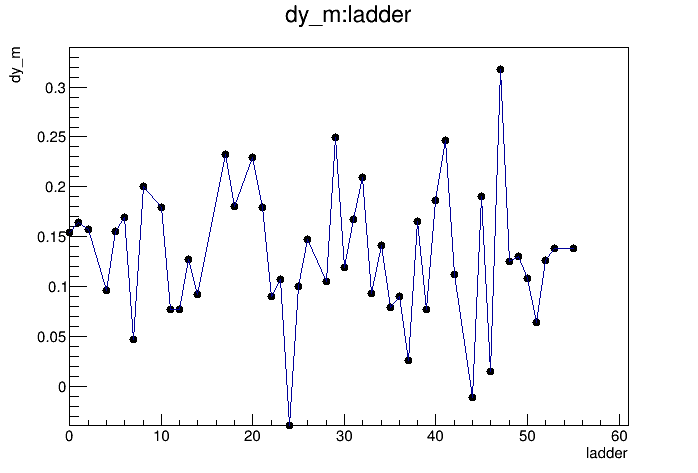
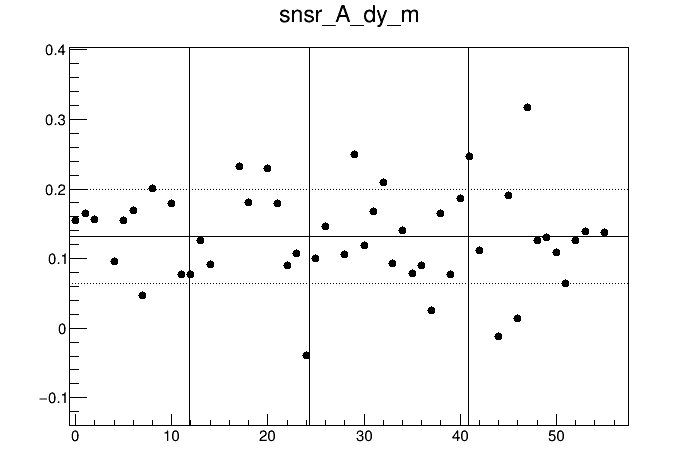
Sample Text

diff --git a/draw_scatterplots.cc b/draw_scatterplots.cc
@@ -14,7 +14,7 @@ void draw_scatterplots()
 		{"B1L0", 24},
 		{"B1L1", 40}
 	};
-	std::map<std::string, std::tuple<float*, float*, float*, Long64_t*, TTree*>> params =
+	std::map<std::string, std::tuple<float*, float*, float*, Long64_t*, TGraph*>> params =
 	{
 		{"dx_m",	{new float(0),	new float(0),	new float(0),	new Long64_t(0), nullptr}},
 		{"dy_m",	{new float(0),	new float(0),	new float(0),	new Long64_t(0), nullptr}},
@@ -71,9 +71,12 @@ void draw_scatterplots()
 	
 			name = *snsr + "_" + par->first;
 			if(std::get<4>(par->second))delete std::get<4>(par->second);
-			std::get<4>(par->second) = new TTree(name.c_str(), name.c_str());
-			std::get<4>(par->second)->Branch("ladder", std::get<3>(par->second));
-			std::get<4>(par->second)->Branch(par->first.c_str(), std::get<0>(par->second));
+			std::get<4>(par->second) = new TGraph();
+			std::get<4>(par->second)->SetName(name.c_str());
+			std::get<4>(par->second)->SetTitle(name.c_str());
+			//std::get<4>(par->second) = new TTree(name.c_str(), name.c_str());
+			//std::get<4>(par->second)->Branch("ladder", std::get<3>(par->second));
+			//std::get<4>(par->second)->Branch(par->first.c_str(), std::get<0>(par->second));
 
 			std::cout << "\t\t" << par->first << std::endl;
 			std::cout << "\t\t\tm:\t" << m << std::endl;
@@ -96,24 +99,85 @@ void draw_scatterplots()
 				{
 					if(name.find(lddr->first) != std::string::npos)*std::get<3>(par->second) += lddr->second;
 				}
-				std::get<4>(par->second)->Fill();//AddPoint(*std::get<3>(par->second), * std::get<0>(par->second));
+				std::get<4>(par->second)->AddPoint(*std::get<3>(par->second), *std::get<0>(par->second));
 			}
 		}
 
 		for(auto par = params.begin(); par != params.end(); ++par)
 		{
-			name = par->first + ":ladder";
-			std::get<4>(par->second)->SetMarkerStyle(20);
-			std::get<4>(par->second)->Draw(name.c_str());
+			float m = *std::get<1>(par->second);
+			float s = *std::get<2>(par->second);
 
-			TCanvas* c1 = (TCanvas*)gROOT->FindObject("c1");
+			std::cout << "\t" << par->first << std::endl;
+			std::cout << "\t\tm:\t" << m << std::endl;
+			std::cout << "\t\ts:\t" << s << std::endl;
+
+			name = *snsr + "_" + par->first;
+			TCanvas* c1 = new TCanvas(name.c_str(), name.c_str());
+			c1->SetFillStyle(4000);
+			c1->Range(0.0, 0.0, 1.0, 1.0);
+			c1->Draw();
+
+			c1->cd();
+			TPad* p1 = new TPad((name + "_graph").c_str(), (name + "_graph").c_str(), 0.0, 0.0, 1.0, 1.0);
+			p1->SetFillStyle(4000);
+			p1->Range(0.0, 0.0, 1.0, 1.0);
+			p1->Draw();
+
+			p1->cd();
+			std::get<4>(par->second)->SetMarkerStyle(20);
+			std::get<4>(par->second)->GetXaxis()->SetRangeUser(-1.0, 57);
+			std::get<4>(par->second)->GetYaxis()->SetRangeUser(m - 4.0 * s, m + 4.0 * s);
+			std::get<4>(par->second)->Draw("AP");
+
+			c1->cd();
+			TPad* p2 = new TPad((name + "_line").c_str(), (name + "_line").c_str(), 0.0, 0.0, 1.0, 1.0);
+			p2->SetFillStyle(4000);
+			p2->Range(0.0, 0.0, 1.0, 1.0);
+			p2->Draw();
+
+			p2->cd();
+			TLine line;
+			line.SetX1(0.1);
+			line.SetX2(0.9);
+
+			line.SetY1(0.5);
+			line.SetY2(0.5);
+			line.DrawClone();
+
+			line.SetLineStyle(3);
+
+			line.SetY1(0.4);
+			line.SetY2(0.4);
+			line.DrawClone();
+
+			line.SetY1(0.6);
+			line.SetY2(0.6);
+			line.DrawClone();
+
+
+			line.SetLineStyle(1);
+			line.SetY1(0.1);
+			line.SetY2(0.9);
+
+			line.SetX1(0.1 + 0.8 * (12.0 / 56.0));
+			line.SetX2(0.1 + 0.8 * (12.0 / 56.0));
+			line.DrawClone();
+
+			line.SetX1(0.1 + 0.8 * (24.0 / 56.0));
+			line.SetX2(0.1 + 0.8 * (24.0 / 56.0));
+			line.DrawClone();
+	
+			line.SetX1(0.1 + 0.8 * (40.0 / 56.0));
+			line.SetX2(0.1 + 0.8 * (40.0 / 56.0));
+			line.DrawClone();		
+
 			name = "param_scatterplots/";
 			name += *snsr + "_" + par->first + ".png";
 
-			TGraph* g = (TGraph*)gROOT->FindObject("Graph");
-			if(g)g->GetYaxis()->SetRangeUser(*std::get<1>(par->second) - 4.0 * *std::get<2>(par->second), *std::get<1>(par->second) - 4.0 * *std::get<2>(par->second));
-			//^^^does nothing
-			if(c1)c1->SaveAs(name.c_str());
+			c1->Update();
+			c1->SaveAs(name.c_str());
+			c1->Close();
 		}
 	}
 }
